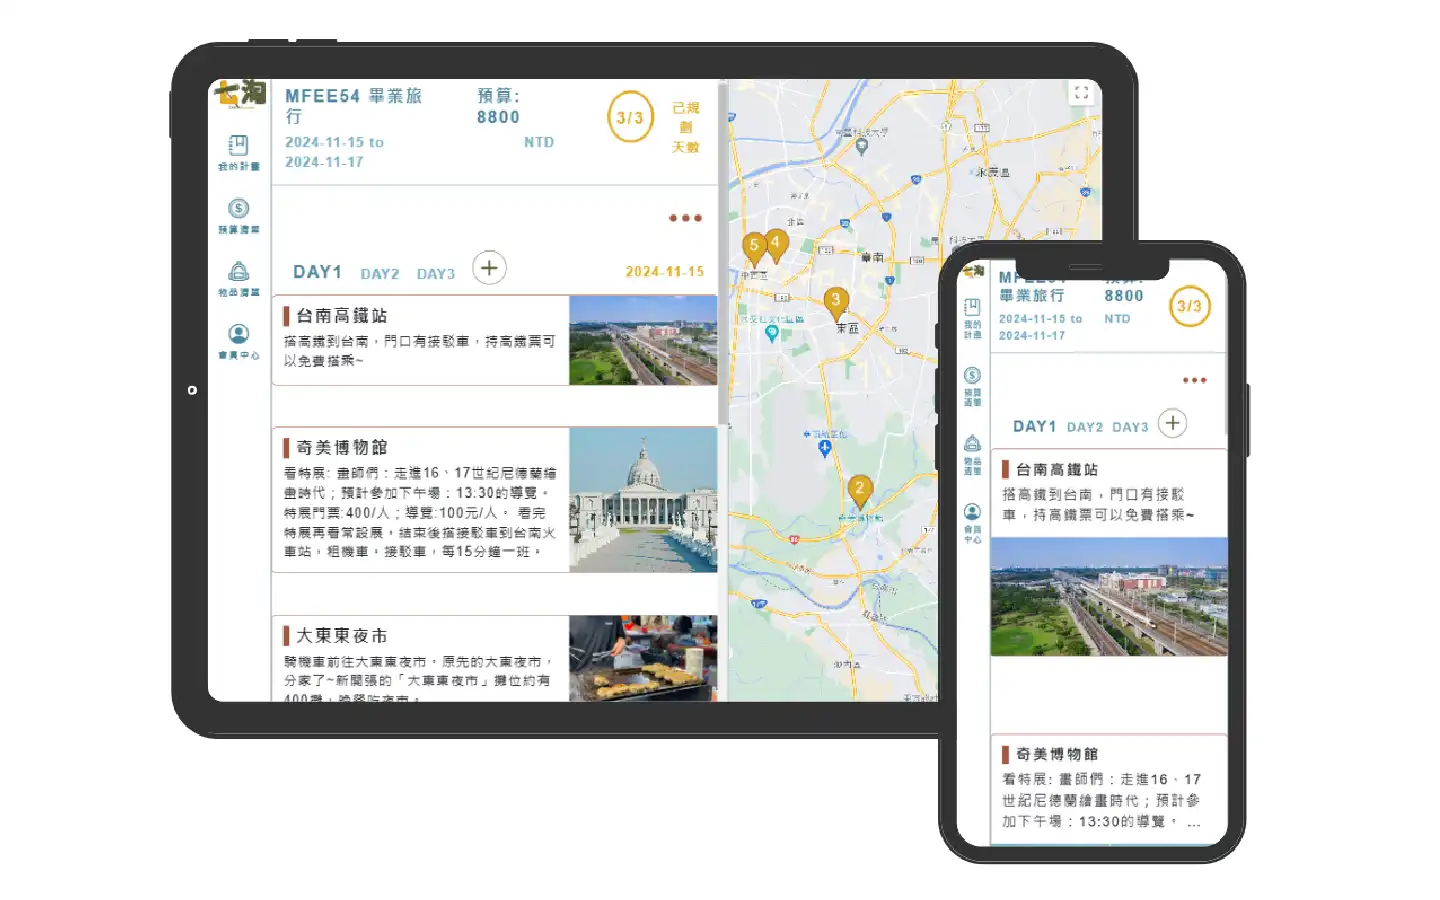
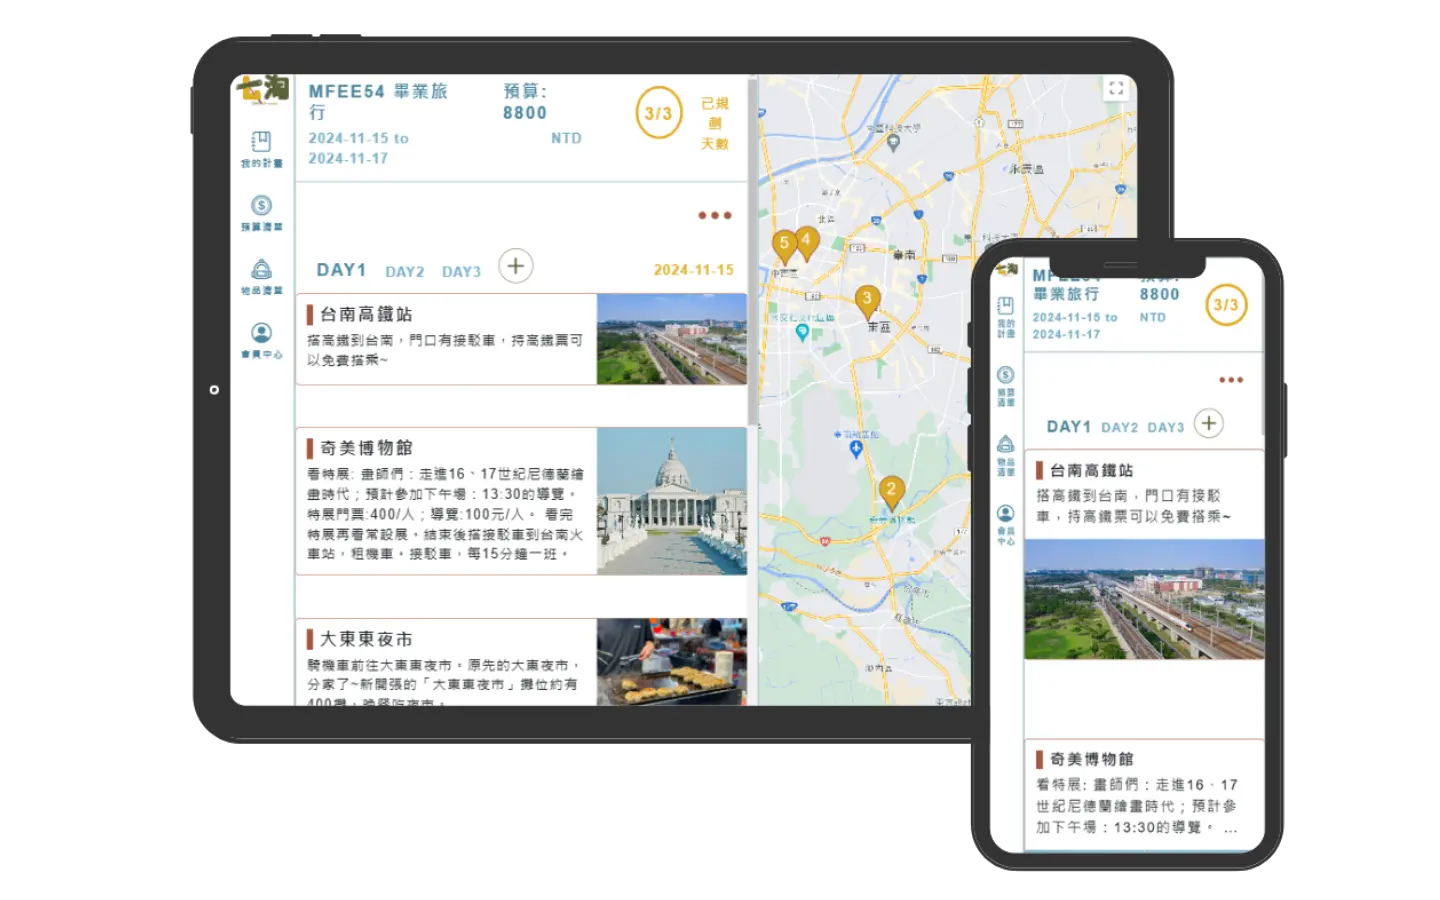
update Orderly & Steady description, remove WIP label, and add mockup image hover effect

Changed region(s): [[0.0938, 0.0311, 0.9062, 0.9956]]

diff --git a/src/components/sections/ProductSection.vue b/src/components/sections/ProductSection.vue
@@ -14,7 +14,7 @@
             <span>02</span>
             <h3>Design and Full-Stack Developer</h3>
           </div>
-          <h2>Orderly & Steady <i style="font-size: 16px;">(Work In Progress)</i></h2>
+          <h2>Orderly & Steady</h2>
         </div>
         <div class="product__title">
           <div>
@@ -69,12 +69,10 @@
         <div class="product__item">
           <figure>
             <figure>
-              <img src="@/assets/images/orderly-steady.webp" alt="Orderly & Steady" />
+              <img src="@/assets/images/orderly-steady.webp" alt="Orderly & Steady" class="product__mockup" />
             </figure>
             <figcaption>
-              A Vue/Node.js/MySQL web app using AI to classify food (Protein, Starch, Veggies). It
-              scores diets based on optimal intake order (Veggies → Protein → Starch) to regulate
-              blood sugar, with full Vitest coverage for reliability.
+              An AI-powered full-stack blood sugar management platform built with Vue 3, Node.js, and MySQL. It leverages Claude API to intelligently classify food components (Fiber, Protein, and Carbohydrates) and implements a custom Inversion Pair algorithm to score dietary impact based on optimal intake order. Architected with dual-token authentication and robust Vitest test coverage to guarantee 100% system reliability.
             </figcaption>
             <div class="link__group">
               <ProjectLink
@@ -105,16 +103,14 @@
             </div>
             <h2>Orderly & Steady</h2>
             <p>
-              A Vue/Node.js/MySQL web app using AI to classify food (Protein, Starch, Veggies). It
-              scores diets based on optimal intake order (Veggies → Protein → Starch) to regulate
-              blood sugar, with full Vitest coverage for reliability.
+              An AI-powered full-stack blood sugar management platform built with Vue 3, Node.js, and MySQL. It leverages Claude API to intelligently classify food components (Fiber, Protein, and Carbohydrates) and implements a custom Inversion Pair algorithm to score dietary impact based on optimal intake order. Architected with dual-token authentication and robust Vitest test coverage to guarantee 100% system reliability.
             </p>
           </div>
         </div>
         <div class="product__item">
           <figure>
             <figure>
-              <img src="@/assets/images/chill-around.webp" alt="Chill Around" />
+              <img src="@/assets/images/chill-around.webp" alt="Chill Around" class="product__mockup" />
             </figure>
             <figcaption>
               Chill Around is a tourism platform enabling users to explore attractions and plan
@@ -366,6 +362,15 @@ function deactivateTitle(el) {
   100% {
     transform: translateX(-100%);
   }
+}
+
+.product__img .product__item .product__mockup {
+  filter: drop-shadow(8px 12px 24px rgba(40, 30, 20, 0.15));
+  transition: transform 0.3s ease, filter 0.3s ease;
+}
+.product__img .product__item .product__mockup:hover {
+  transform: translateY(-4px);
+  filter: drop-shadow(12px 20px 32px rgba(40, 30, 20, 0.22));
 }
 
 .product__img .product__item .img_container {
